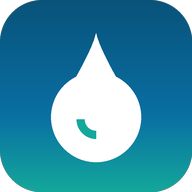
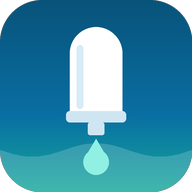
Promoção por modelo, novo nome e ícone com vela
- Opção de promoção (refis de brinde, desconto, validade) por modelo
- Título: Calculadora de Consumo Acqualive
- Ícone com vela de filtro e gota d'água

diff --git a/app.js b/app.js
@@ -24,7 +24,7 @@
     },
     vendedor: { nome: '', fone: '' }
   };
-  var CHAVE = 'contaDaAgua.v1';
+  var CHAVE = 'contaDaAgua.v1'; // mantém os ajustes já salvos no celular
   var TIPOS = { gravidade: 'Bancada, por gravidade', pia: 'Sob a pia', eletrico: 'Elétrico' };
 
   var estado = carregar();
@@ -53,6 +53,11 @@
   function modeloAtual() { return achar(estado.modelos, estado.entrada.modelo) || estado.modelos[0]; }
   function refilAtual() { return achar(estado.refis, estado.entrada.refil) || estado.refis[0]; }
   function achar(lista, id) { for (var i = 0; i < lista.length; i++) if (lista[i].id === id) return lista[i]; return null; }
+  function hojeISO() { var d = new Date(); return new Date(d.getTime() - d.getTimezoneOffset() * 60000).toISOString().slice(0, 10); }
+  function promoDe(m) { return m.promo || (m.promo = { ativa: false, nome: 'Black Friday', refis: 0, desconto: 0, ate: '' }); }
+  function promoVencida(m) { var p = promoDe(m); return !!p.ate && p.ate < hojeISO(); }
+  function promoValendo(m) { var p = promoDe(m); return p.ativa && !promoVencida(m) && (p.refis > 0 || p.desconto > 0); }
+  function dataBR(iso) { var a = iso.split('-'); return a[2] + '/' + a[1] + '/' + a[0]; }
   function novoId(p) { return p + Date.now().toString(36); }
 
   // ---------- Formatação ----------
@@ -98,6 +103,12 @@
     $('precoFiltro').value = m.preco;
     $('precoPix').value = m.pix || '';
     $('parcelas').value = e.parcelas;
+    var p = promoDe(m);
+    $('promoAtiva').checked = p.ativa && !promoVencida(m);
+    $('promoNome').value = p.nome || '';
+    $('promoRefis').value = p.refis || '';
+    $('promoDesconto').value = p.desconto || '';
+    $('promoAte').value = p.ate || '';
     $('precoRefil').value = r.preco;
     $('mesesRefil').value = e.fonte === 'poco' ? r.mesesPoco : r.mesesRede;
     $('limiteLitros').value = r.litros || '';
@@ -169,6 +180,16 @@
   // Campos do modelo e do refil gravam no cadastro (ficam salvos)
   $('precoFiltro').addEventListener('input', function () { modeloAtual().preco = C.numero(this.value); atualizar(); });
   $('precoPix').addEventListener('input', function () { modeloAtual().pix = C.numero(this.value); atualizar(); });
+  $('promoAtiva').addEventListener('change', function () {
+    var p = promoDe(modeloAtual());
+    p.ativa = this.checked;
+    if (p.ativa && promoVencida(modeloAtual())) { p.ate = ''; $('promoAte').value = ''; }
+    atualizar();
+  });
+  $('promoNome').addEventListener('input', function () { promoDe(modeloAtual()).nome = this.value.trim(); atualizar(); });
+  $('promoRefis').addEventListener('input', function () { promoDe(modeloAtual()).refis = Math.floor(C.numero(this.value)); atualizar(); });
+  $('promoDesconto').addEventListener('input', function () { promoDe(modeloAtual()).desconto = C.numero(this.value); atualizar(); });
+  $('promoAte').addEventListener('change', function () { promoDe(modeloAtual()).ate = this.value; preencherCampos(); atualizar(); });
   $('precoRefil').addEventListener('input', function () { refilAtual().preco = C.numero(this.value); atualizar(); });
   $('precoRefil').addEventListener('change', function () { preencherSelects(); });
   document.querySelector('.ajustes').addEventListener('toggle', function () { if (this.open) renderAjustes(); });
@@ -227,7 +248,9 @@
       precoRefil: r.preco,
       mesesRefil: C.numero($('mesesRefil').value),
       limiteLitros: r.litros,
-      fonte: e.fonte
+      fonte: e.fonte,
+      promoRefis: promoValendo(m) ? promoDe(m).refis : 0,
+      promoDesconto: promoValendo(m) ? promoDe(m).desconto : 0
     };
   }
 
@@ -271,6 +294,12 @@
     var m = modeloAtual();
     $('dicaPix').textContent = m.pix && m.pix < m.preco ? 'Pix com ' + r0(m.preco - m.pix) + ' de desconto. Confira o valor na hora.' : '';
 
+    var p = promoDe(m);
+    $('campoPromo').hidden = !$('promoAtiva').checked && !(p.ativa && promoVencida(m));
+    $('dicaPromo').textContent = promoVencida(m) ? 'A promoção acabou em ' + dataBR(p.ate) + '. Marque de novo para reativar.'
+      : p.ate ? 'Vale até ' + dataBR(p.ate) + '. Depois, desliga sozinha.'
+      : 'Fica guardada só neste modelo. Desligue quando a promoção acabar.';
+
     var nota = refilAtual().nota;
     $('avisoRefil').hidden = !nota;
     $('avisoRefil').textContent = nota || '';
@@ -284,7 +313,7 @@
     var d = $('destaque'), barra = $('barra');
     if (r.temEconomia) {
       d.className = 'destaque bom';
-      d.innerHTML = '<div class="grande">Economia de ' + r0(r.economiaMes) + ' por mês</div>' +
+      d.innerHTML = seloPromo() + '<div class="grande">Economia de ' + r0(r.economiaMes) + ' por mês</div>' +
         '<div class="sub">' + r0(r.economiaAno) + ' por ano · retorno do aparelho em ' + meses(r.retornoMeses) + '</div>';
       barra.className = 'barra bom';
       barra.textContent = 'Economia de ' + r0(r.economiaMes) + '/mês · retorno em ' + meses(r.retornoMeses).replace('cerca de ', '~');
@@ -293,7 +322,7 @@
       var linha = ent.compraAgua
         ? 'Comparado ao galão, custa ' + r0(r.custoNovoMes) + ' a mais por mês.'
         : 'Hoje não há gasto com água comprada para comparar.';
-      d.innerHTML = '<div class="grande">Custo novo de ' + r2(Math.max(r.custoNovoDia, 0)) + ' por dia</div>' +
+      d.innerHTML = seloPromo() + '<div class="grande">Custo novo de ' + r2(Math.max(r.custoNovoDia, 0)) + ' por dia</div>' +
         '<div class="sub">' + linha + ' No 1º ano, contando o aparelho: ' + r2(r.custoPrimeiroAnoDia) + ' por dia.</div>';
       barra.className = 'barra neutro';
       barra.textContent = 'Custo novo de ' + r2(Math.max(r.custoNovoDia, 0)) + ' por dia';
@@ -305,10 +334,11 @@
     h += item('Refil por mês', r0(r.refilMes), r2(r.refilDia) + ' por dia · ' + troca);
     if (r.temEconomia) {
       h += item('Economia', r0(r.economiaMes) + ' /mês', r0(r.economiaAno) + ' por ano');
-      h += item('Retorno', meses(r.retornoMeses).replace('cerca de ', '~').replace(/ \(.*\)/, ''), (r.retornoMeses >= 18 ? num1.format(r.retornoMeses / 12) + ' anos · ' : '') + 'preço ' + (ent.formaPagamento === 'pix' ? 'no Pix ' : '') + r0(r.precoFiltro));
+      h += item('Retorno', meses(r.retornoMeses).replace('cerca de ', '~').replace(/ \(.*\)/, ''), (r.retornoMeses >= 18 ? num1.format(r.retornoMeses / 12) + ' anos · ' : '') + 'preço ' + (ent.formaPagamento === 'pix' ? 'no Pix ' : '') + r0(r.precoFiltro) + (r.valorBrinde ? ' − brinde ' + r0(r.valorBrinde) : ''));
     } else {
       h += item('Aparelho', r0(r.precoFiltro), ent.formaPagamento === 'pix' ? 'no Pix' : r.parcelas + 'x de ' + r2(r.valorParcela));
     }
+    if (r.refisGratis || r.promoDesconto) h += item('Promoção', textoPromoCurto(r), r.refisGratis ? (r.refisGratis > 1 ? 'as ' + r.refisGratis + ' primeiras trocas saem' : 'a primeira troca sai') + ' sem custo' : 'já descontado no preço');
     h += item('Próxima troca de refil', mesAno(r.proximaTroca), 'a primeira vela já vem no aparelho');
     $('grade').innerHTML = h;
 
@@ -318,6 +348,17 @@
     if (r.temEconomia && r.retornoMeses > 36) av.push('Retorno longo. Para esta casa, a conversa forte é praticidade: não carregar galão e não ficar sem água.');
     if (!r.temEconomia && ent.compraAgua) av.push('Com este consumo o refil sai mais caro que o galão. Mostre a praticidade, não a conta.');
     $('avisos').innerHTML = av.map(function (t) { return '<p class="aviso">' + esc(t) + '</p>'; }).join('');
+  }
+
+  function seloPromo() {
+    var m = modeloAtual();
+    return promoValendo(m) ? '<span class="selo">🎁 ' + esc(promoDe(m).nome || 'Promoção') + '</span>' : '';
+  }
+  function textoPromoCurto(r) {
+    var t = [];
+    if (r.refisGratis) t.push(r.refisGratis + (r.refisGratis > 1 ? ' refis' : ' refil') + ' de brinde (' + r0(r.valorBrinde) + ')');
+    if (r.promoDesconto) t.push(r0(r.promoDesconto) + ' de desconto');
+    return t.join(' + ');
   }
 
   function renderFluxo(ent, r) {
@@ -403,15 +444,23 @@
     } else {
       L.push('💧 Consumo considerado: ' + litrosTxt(ent.quantidade) + ' por dia.');
     }
+    var de = r.promoDesconto ? 'de ' + r0(r.precoBase) + ' por ' : '';
+    var pixPromo = m.pix && m.pix < m.preco ? Math.max(0, m.pix - r.promoDesconto) : 0;
     var pg = ent.formaPagamento === 'pix'
-      ? r0(r.precoFiltro) + ' no Pix'
-      : r0(m.preco) + ' em ' + r.parcelas + 'x de ' + r2(r.valorParcela) + (m.pix && m.pix < m.preco ? ' (ou ' + r2(m.pix) + ' no Pix)' : '');
+      ? de + r0(r.precoFiltro) + ' no Pix'
+      : de + r0(r.precoFiltro) + ' em ' + r.parcelas + 'x de ' + r2(r.valorParcela) + (pixPromo ? ' (ou ' + r2(pixPromo) + ' no Pix)' : '');
     L.push('🔹 Filtro ' + m.nome + ': ' + pg + '.');
+    if (promoValendo(m)) {
+      var pr = promoDe(m), brinde = [];
+      if (r.refisGratis) brinde.push('ganha ' + r.refisGratis + (r.refisGratis > 1 ? ' refis' : ' refil') + ' de brinde (equivale a ' + r0(r.valorBrinde) + ')');
+      if (r.promoDesconto) brinde.push(r0(r.promoDesconto) + ' de desconto no aparelho');
+      L.push('🎁 Promoção ' + (pr.nome || '') + ': ' + brinde.join(' e ') + (pr.ate ? ', válida até ' + dataBR(pr.ate) : '') + '.');
+    }
     L.push('🔹 Refil: ' + rf.nome + ', ' + r0(rf.preco) + ', troca a cada ' + num1.format(r.mesesEfetivos) + ' meses. Dá cerca de ' + r0(r.refilMes) + ' por mês (' + r2(r.refilDia) + ' por dia).');
     L.push('');
     if (r.temEconomia) {
       L.push('✅ Economia estimada: ' + r0(r.economiaMes) + ' por mês, ' + r0(r.economiaAno) + ' por ano.');
-      L.push('⏱ Retorno do aparelho em ' + meses(r.retornoMeses) + '.');
+      L.push('⏱ Retorno do aparelho em ' + meses(r.retornoMeses) + (r.valorBrinde ? ', já contando o refil de brinde' : '') + '.');
     } else if (ent.compraAgua) {
       L.push('Comparando com o galão, o filtro é um custo novo de cerca de ' + r2(Math.max(r.custoNovoDia, 0)) + ' por dia (no 1º ano, contando o aparelho, ' + r2(r.custoPrimeiroAnoDia) + ' por dia).');
     } else {

diff --git a/calc.js b/calc.js
@@ -15,7 +15,9 @@
    *   precoFiltro, precoPix, formaPagamento: 'parcelado' | 'pix', parcelas,
    *   tipoFiltro: 'gravidade' | 'eletrico' | 'pia',
    *   precoRefil, mesesRefil, limiteLitros,
-   *   fonte: 'rede' | 'poco'
+   *   fonte: 'rede' | 'poco',
+   *   promoDesconto: R$ de desconto no aparelho (promoção),
+   *   promoRefis: refis de brinde (promoção)
    * }
    */
   function calcular(e) {
@@ -47,13 +49,19 @@
     var trocaPorLitros = mesesAteLimite < mesesRefil;
     var refilMes = pos(e.precoRefil) / mesesEfetivos;
 
-    var precoFiltro = e.formaPagamento === 'pix' && pos(e.precoPix) > 0 ? pos(e.precoPix) : pos(e.precoFiltro);
+    var precoBase = e.formaPagamento === 'pix' && pos(e.precoPix) > 0 ? pos(e.precoPix) : pos(e.precoFiltro);
+    var promoDesconto = Math.min(pos(e.promoDesconto), precoBase);
+    var precoFiltro = precoBase - promoDesconto;
+    var refisGratis = Math.floor(pos(e.promoRefis));
+    var valorBrinde = refisGratis * pos(e.precoRefil);
     var parcelas = e.formaPagamento === 'pix' ? 1 : Math.max(1, Math.round(pos(e.parcelas) || 10));
     var valorParcela = precoFiltro / parcelas;
 
     var economiaMes = galaoMes - refilMes;
     var temEconomia = e.compraAgua && economiaMes > 0.005;
-    var retornoMeses = temEconomia ? precoFiltro / economiaMes : null;
+    // Refis de brinde: cada troca que o cliente não paga abate do investimento.
+    var investimento = Math.max(0, precoFiltro - valorBrinde);
+    var retornoMeses = temEconomia ? investimento / economiaMes : null;
 
     // Custo novo (quando não há economia): diferença de todo mês, e o 1º ano contando o aparelho
     var custoNovoMes = temEconomia ? 0 : refilMes - galaoMes;
@@ -61,7 +69,8 @@
     // O aparelho já vem com a primeira vela: no 1º ano entram só as trocas.
     var trocasAte = function (mes) { return Math.max(0, Math.ceil(mes / mesesEfetivos - 1e-9) - 1); };
     var trocasPrimeiroAno = trocasAte(12);
-    var custoPrimeiroAnoDia = (precoFiltro + trocasPrimeiroAno * pos(e.precoRefil) - 12 * galaoMes) / 365;
+    var trocasPagasPrimeiroAno = Math.max(0, trocasPrimeiroAno - refisGratis);
+    var custoPrimeiroAnoDia = (precoFiltro + trocasPagasPrimeiroAno * pos(e.precoRefil) - 12 * galaoMes) / 365;
 
     // Gasto acumulado em 36 meses (fluxo de caixa)
     var serieGalao = [], serieFiltro = [];
@@ -69,7 +78,7 @@
       serieGalao.push(galaoMes * m);
       var pago = e.formaPagamento === 'pix' ? precoFiltro : valorParcela * Math.min(m, parcelas);
       // trocas feitas até o mês m (a vela que vem no aparelho não conta)
-      var trocas = Math.floor(m / mesesEfetivos + 1e-9);
+      var trocas = Math.max(0, Math.floor(m / mesesEfetivos + 1e-9) - refisGratis);
       serieFiltro.push(pago + trocas * pos(e.precoRefil));
     }
 
@@ -87,6 +96,11 @@
       mesesEfetivos: mesesEfetivos,
       trocaPorLitros: trocaPorLitros,
       precoFiltro: precoFiltro,
+      precoBase: precoBase,
+      promoDesconto: promoDesconto,
+      refisGratis: refisGratis,
+      valorBrinde: valorBrinde,
+      investimento: investimento,
       parcelas: parcelas,
       valorParcela: valorParcela,
       pixDesconto: pos(e.precoFiltro) - (pos(e.precoPix) || pos(e.precoFiltro)),

diff --git a/index.html b/index.html
@@ -3,7 +3,7 @@
 <head>
   <meta charset="utf-8">
   <meta name="viewport" content="width=device-width, initial-scale=1, viewport-fit=cover">
-  <title>Conta da Água</title>
+  <title>Calculadora de Consumo Acqualive</title>
   <meta name="description" content="Compara o gasto com galão e o custo de ter um filtro, para usar na visita ao cliente.">
   <meta name="theme-color" content="#0a6fa3">
   <link rel="manifest" href="manifest.webmanifest">
@@ -16,7 +16,7 @@
     <div class="topo-in">
       <img src="icones/icone.svg" alt="" width="36" height="36">
       <div>
-        <h1>Conta da Água</h1>
+        <h1>Calculadora de Consumo Acqualive</h1>
         <p>Galão ou filtro: quanto custa cada um</p>
       </div>
       <button type="button" class="btn-novo" id="novoCliente">Novo cliente</button>
@@ -120,6 +120,26 @@
       <label id="campoParcelas">Número de parcelas
         <input id="parcelas" type="number" inputmode="numeric" min="1" step="1">
       </label>
+      <div class="promo">
+        <label class="check"><input type="checkbox" id="promoAtiva"> <span>Promoção neste modelo <small>(ex.: Black Friday)</small></span></label>
+        <div id="campoPromo" hidden>
+          <label>Nome da promoção
+            <input id="promoNome" type="text" placeholder="Black Friday">
+          </label>
+          <div class="linha2">
+            <label>Refis de brinde
+              <input id="promoRefis" type="number" inputmode="numeric" min="0" step="1" placeholder="0">
+            </label>
+            <label>Desconto (R$)
+              <input id="promoDesconto" type="number" inputmode="decimal" min="0" step="any" placeholder="0">
+            </label>
+          </div>
+          <label>Válida até
+            <input id="promoAte" type="date">
+          </label>
+          <small class="dica" id="dicaPromo">Fica guardada só neste modelo. Depois da data, desliga sozinha.</small>
+        </div>
+      </div>
     </section>
 
     <!-- VELA -->

diff --git a/styles.css b/styles.css
@@ -62,7 +62,7 @@ body {
   .topo { background: linear-gradient(135deg, #06354f, #0a5f8a 60%, #0e7f75); }
 }
 .topo-in { max-width: 640px; margin: 0 auto; display: flex; align-items: center; gap: 12px; }
-.topo h1 { margin: 0; font-size: 1.25rem; }
+.topo h1 { margin: 0; font-size: 1.1rem; line-height: 1.2; }
 .topo p { margin: 0; font-size: .85rem; opacity: .9; }
 .topo-in > div { flex: 1; }
 .btn-novo {
@@ -176,3 +176,12 @@ hr { border: 0; border-top: 1px solid var(--borda); margin: 16px 0; }
   background: var(--texto); color: var(--card); padding: 10px 16px; border-radius: 999px; font-size: .9rem; z-index: 9;
 }
 [hidden] { display: none !important; }
+
+/* Promoção */
+.promo { border: 1px dashed var(--borda); border-radius: 12px; padding: 12px; margin-top: 4px; }
+.promo .check { display: flex; align-items: center; gap: 10px; color: var(--texto); font-size: .95rem; margin: 0; cursor: pointer; }
+.promo .check input { width: 22px; height: 22px; min-height: 0; margin: 0; flex: none; accent-color: var(--primaria); }
+.promo .check small { color: var(--suave); font-weight: 400; }
+#campoPromo { margin-top: 12px; }
+.selo { display: inline-block; background: var(--primaria); color: #fff; border-radius: 999px; padding: 2px 10px; font-size: .78rem; font-weight: 700; margin-bottom: 6px; }
+@media (prefers-color-scheme: dark) { .selo { color: #06212e; } }

diff --git a/testes.js b/testes.js
@@ -39,5 +39,15 @@ const okNao = !nao.temEconomia && nao.galaoMes === 0;
 if (!okNao) falhas++;
 console.log(`${okNao ? 'OK  ' : 'FALHA'} não compra água: 1º ano R$ ${nao.custoPrimeiroAnoDia.toFixed(2)}/dia (CLAUDE.md: ~R$ 7,60)`);
 
+// Promoção: Terracota com 1 refil de brinde e 3 galões/semana
+const promo = calcular({ ...base, ...vself, precoFiltro: 3297, quantidade: 3, promoRefis: 1 });
+const semPromo = calcular({ ...base, ...vself, precoFiltro: 3297, quantidade: 3 });
+perto('Terracota sem promoção, retorno', semPromo.retornoMeses, 3297 / semPromo.economiaMes, 0.01);
+perto('Terracota + 1 refil de brinde, retorno', promo.retornoMeses, (3297 - 477) / promo.economiaMes, 0.01);
+perto('Brinde não muda a economia mensal', promo.economiaMes, semPromo.economiaMes, 0.01);
+perto('Gráfico: 36 meses custa 1 refil a menos', semPromo.serieFiltro[36] - promo.serieFiltro[36], 477, 0.01);
+const desc = calcular({ ...base, ...vself, quantidade: 3, promoDesconto: 300 });
+perto('Desconto de R$ 300 no aparelho', desc.precoFiltro, 1997, 0.01);
+
 console.log(falhas ? `\n${falhas} falha(s)` : '\nTodos os casos batem.');
 process.exit(falhas ? 1 : 0);

diff --git a/sw.js b/sw.js
@@ -1,6 +1,6 @@
 // Guarda o app no celular para abrir sem internet.
 // Ao publicar uma versão nova, mude o número abaixo.
-const VERSAO = 'conta-agua-v1';
+const VERSAO = 'calculadora-al-v2';
 const ARQUIVOS = [
   './', 'index.html', 'styles.css', 'calc.js', 'app.js', 'manifest.webmanifest',
   'icones/icone.svg', 'icones/icone-192.png', 'icones/icone-512.png', 'icones/icone-maskable-512.png'

diff --git a/LEIA-ME.md b/LEIA-ME.md
@@ -1,4 +1,4 @@
-# Conta da Água
+# Calculadora de Consumo Acqualive
 
 Este app compara o gasto com galão e o custo de ter um filtro. Funciona no celular, sem internet, depois de aberto uma vez.
 
@@ -25,7 +25,7 @@ Mude só as variáveis no topo de `styles.css` (`--primaria`, `--agua` etc.). Qu
 
 ## Publicar uma versão nova
 
-Depois de alterar qualquer arquivo, mude `VERSAO` em `sw.js` (por exemplo, `conta-agua-v2`). Assim os celulares recebem a versão nova.
+Depois de alterar qualquer arquivo, mude `VERSAO` em `sw.js` (por exemplo, `calculadora-al-v3`). Assim os celulares recebem a versão nova.
 
 ## Dados que ainda dependem da franquia
 
